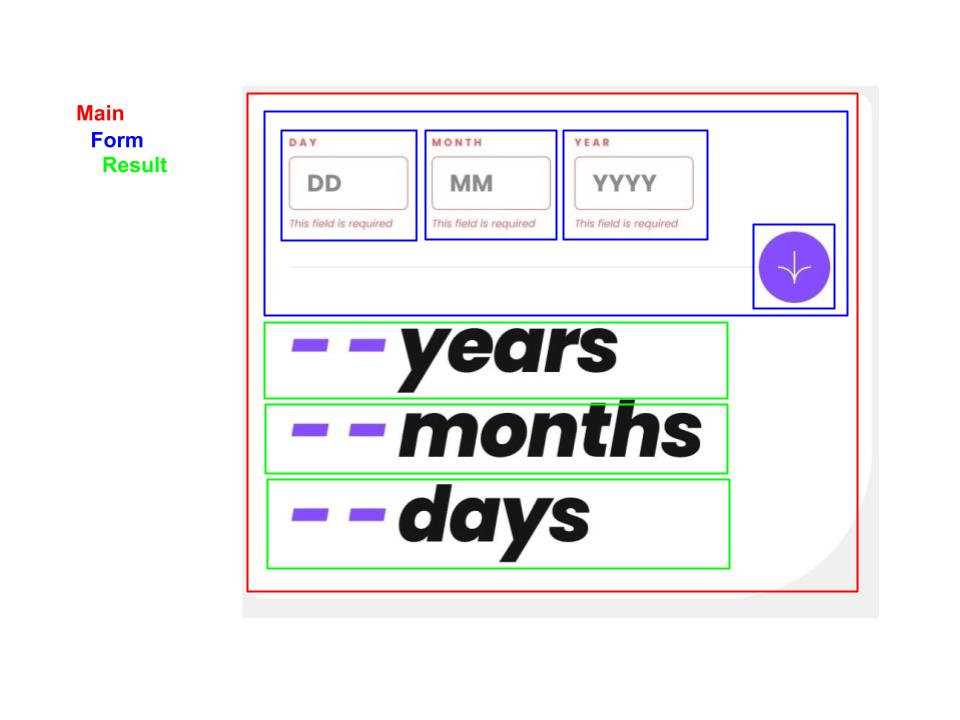
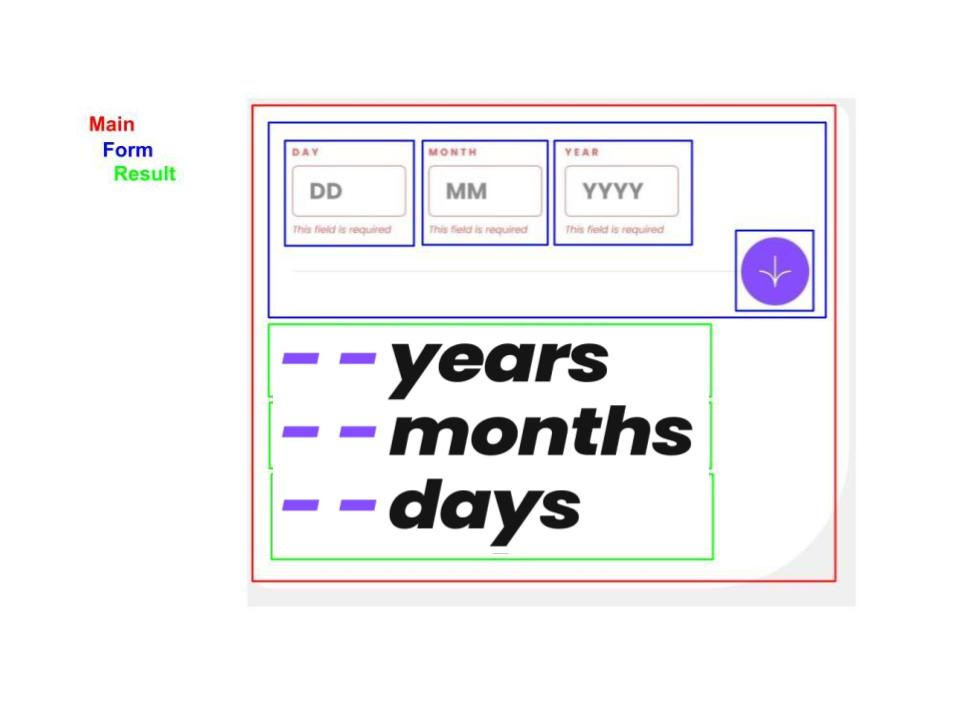
modified_1: README.md, drawing.jpg, index.html, style.css

Changed region(s): [[0.25, 0.1222, 0.9062, 0.825], [0.0625, 0.1528, 0.1875, 0.275]]

diff --git a/index.html b/index.html
@@ -8,7 +8,7 @@
   <meta name="description" content="Age calculator lets view an age in years, months, and days" />
   <link rel="icon" type="image/png" sizes="32x32" href="./assets/images/favicon-32x32.png" />
   <meta http-equiv="X-UA-Compatible" content="ie=edge" />
-  <!--<link href="https://fonts.googleapis.com/css2?family=Rubik:wght@400..700&display=swap" rel="stylesheet" />-->
+  <link href="https://fonts.googleapis.com/css2?family=Poppins:wght@400;700;800&display=swap" rel="stylesheet" />
   <link rel="stylesheet" href="style.css" />
   <!--<link rel="stylesheet" href="animo.css" />-->
   <link rel="stylesheet" href="reset.css" />
@@ -25,33 +25,26 @@
             <form class="form">
                 <div class="day">
                     <label class="day__label" for="day__id">Day</label>
-                    <input class="day__input" id="day__id" type="text" placeholder="DD"/>
-                    <span class="day__validation">This field is required</span>
+                    <input id="day__id" class="day__input" type="text" aria-describedby="day__validation-error" aria-invalid="true" required aria-required="true" placeholder="DD"/>
+                    <span id="day__validation-error" class="day__validation hidden" role="alert">This field is required</span>
                 </div>
                 <div class="month">
                     <label class="month__label" for="month__id">Month</label>
-                    <input class="month__input" id="month__id" type="text" placeholder="MM"/>
-                    <span class="month__validation">This field is required</span>
+                    <input id="month__id" class="month__input" type="text" aria-describedby="month__validation-error" aria-invalid="true" required aria-required="true" placeholder="MM"/>
+                    <span id="month__validation-error" class="month__validation hidden">This field is required</span>
                 </div>
                 <div class="year">
                     <label class="year__label" for="year__id">Year</label>
-                    <input class="year__input" id="year__id" type="text" placeholder="YYYY"/>
-                    <span class="year__validation">This field is required</span>
+                    <input id="year__id" class="year__input" type="text" aria-describedby="year__validation-error" aria-invalid="true" required aria-required="true" placeholder="YYYY"/>
+                    <span id="year__validation-error" class="year__validation hidden">This field is required</span>
                 </div>
                 <button id="btn"><img src="assets/images/icon-arrow.svg" alt="Arrow" /></button>
             </form>
-            <div class="result__years">
-                <span class="result__years-number">- -</span>
-                <p class="result__years-title">years</p>
-            </div>
-            <div class="result__months">
-              <span class="result__months-number">- -</span>
-              <p class="result__months-title">months</p>
-            </div>
-            <div class="result__days">
-                <span class="result__days-number">- -</span>
-                <p class="result__days-title">days</p>
-            </div>
+            <section class="result" aria-label="age calculator result">
+                <p class="result__years"><span class="result__years-number number">--</span>years</p>
+                <p class="result__months"><span class="result__months-number number">--</span>months</p>
+                <p class="result__days"> <span class="result__days-number number">--</span>days</p>
+            </section>
         </main>
         <!--3rd component-->
         <footer class="attribution">

diff --git a/style.css b/style.css
@@ -1,3 +1,63 @@
+:root {
+    /* Primary Color */
+    --purple: hsl(259, 100%, 65%);
+    --light-red: hsl(0, 100%, 67%);
+
+    /* Neutral Colors */
+    --white: hsl(0, 0%, 100%);
+    --off-white: hsl(0, 0%, 94%);
+    --light-grey: hsl(0, 0%, 86%);
+    --smokey-grey: hsl(0, 1%, 44%);
+    --off-black: hsl(0, 0%, 8%);
+    
+    /* fonts */
+    --ff-primary: 'Poppins', sans-serif;
+    --fw-400: 400;
+    --fw-700: 700;
+    --fw-800: 800;
+}
+
+
+body {
+    font-family: var(--ff-primary);
+    font-weight: var(--fw-400);
+    /*font-size: var(--fs-16);*/
+    display: flex;
+    flex-direction: column;
+    align-items: center;
+    background-color: var(--off-white);
+}
+
+/*----------------Mobile layout--------------------*/
+/* style 1st component - mobile */
+/*https://www.w3schools.com/accessibility/accessibility_heading_levels.php*/
+.sr-only {
+    position: absolute;
+    left: -10000px;
+    top: auto;
+    width: 1px;
+    height: 1px;
+    overflow: hidden;
+}
+
+/* style 2.1 component - mobile */
+
+/* style 2.2 component - mobile */
+
+
+/*---------------------Desktop layout-------------------------*/
+
+
+@media screen and (min-width: 48rem) {
+
+   
+}
+/*----------------grid area names----------------------------*/
+
+
+
+
+/*
 .day, .month, .year {
     display: inline-block;
 }
@@ -20,16 +80,13 @@
 
 .result__years, .result__months, .result__days {
     display: block;
+    font-size: 10rem;
+    font-weight: 700;
+    line-height: 80%;
 }
 
-.result__years-number, .result__years-title {
-        display: inline-block;
+.number {
+    letter-spacing: 1.2rem;
 }
 
-.result__months-number, .result__months-title {
-    display: inline-block;
-}
-
-.result__days-number, .result__days-title {
-    display: inline-block;
-}
+*/

diff --git a/README.md b/README.md
@@ -8,7 +8,7 @@
 - CSS (grid-layout)
 - JavaScript
 
-## Used tehniques
+## Using tehniques
 
 - BEM naming
 - Accessibility
@@ -32,8 +32,8 @@ Users should be able to:
 
 - [x] Create drawing from design (structure of design)(1st task)
 - [x] Create of repo (2nd task)
-- [ ] Create HTML layout (3rd task)
-- [ ] Create CSS layout according style guides (4th task)
+- [x] Create HTML layout (3rd task)
+- [x] Create CSS layout according style guides (4th task)
 - [ ] Create CSS (grid) layout for mobile first (5th task)
 - [ ] Create CSS (grid) layout for desktop (6th task)
 - [ ] Implement JavaScript (7th task)
